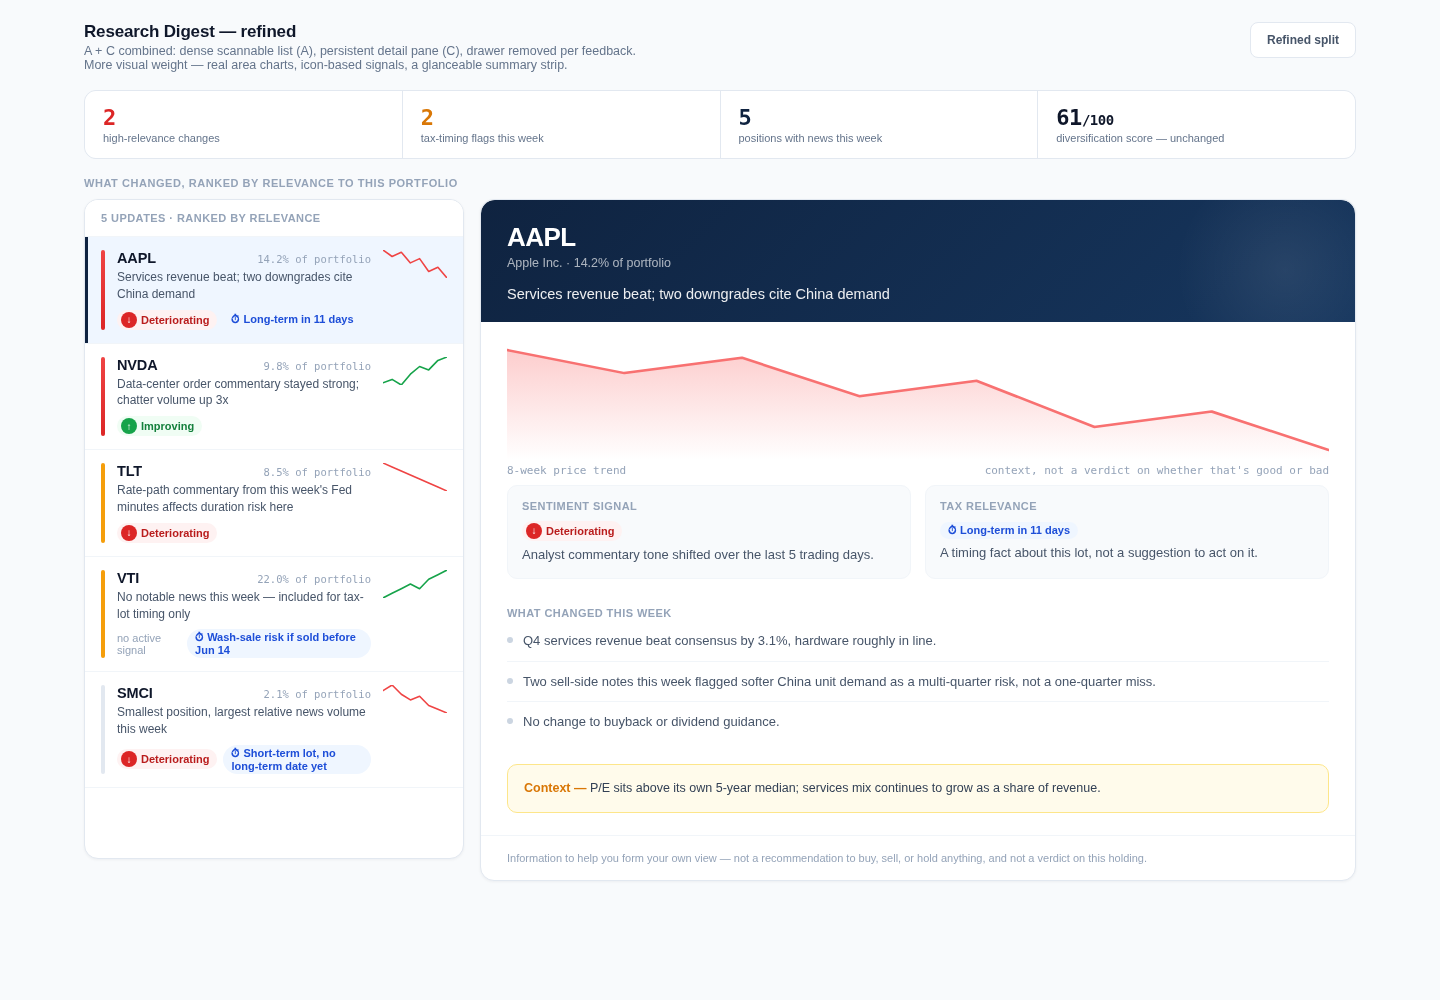
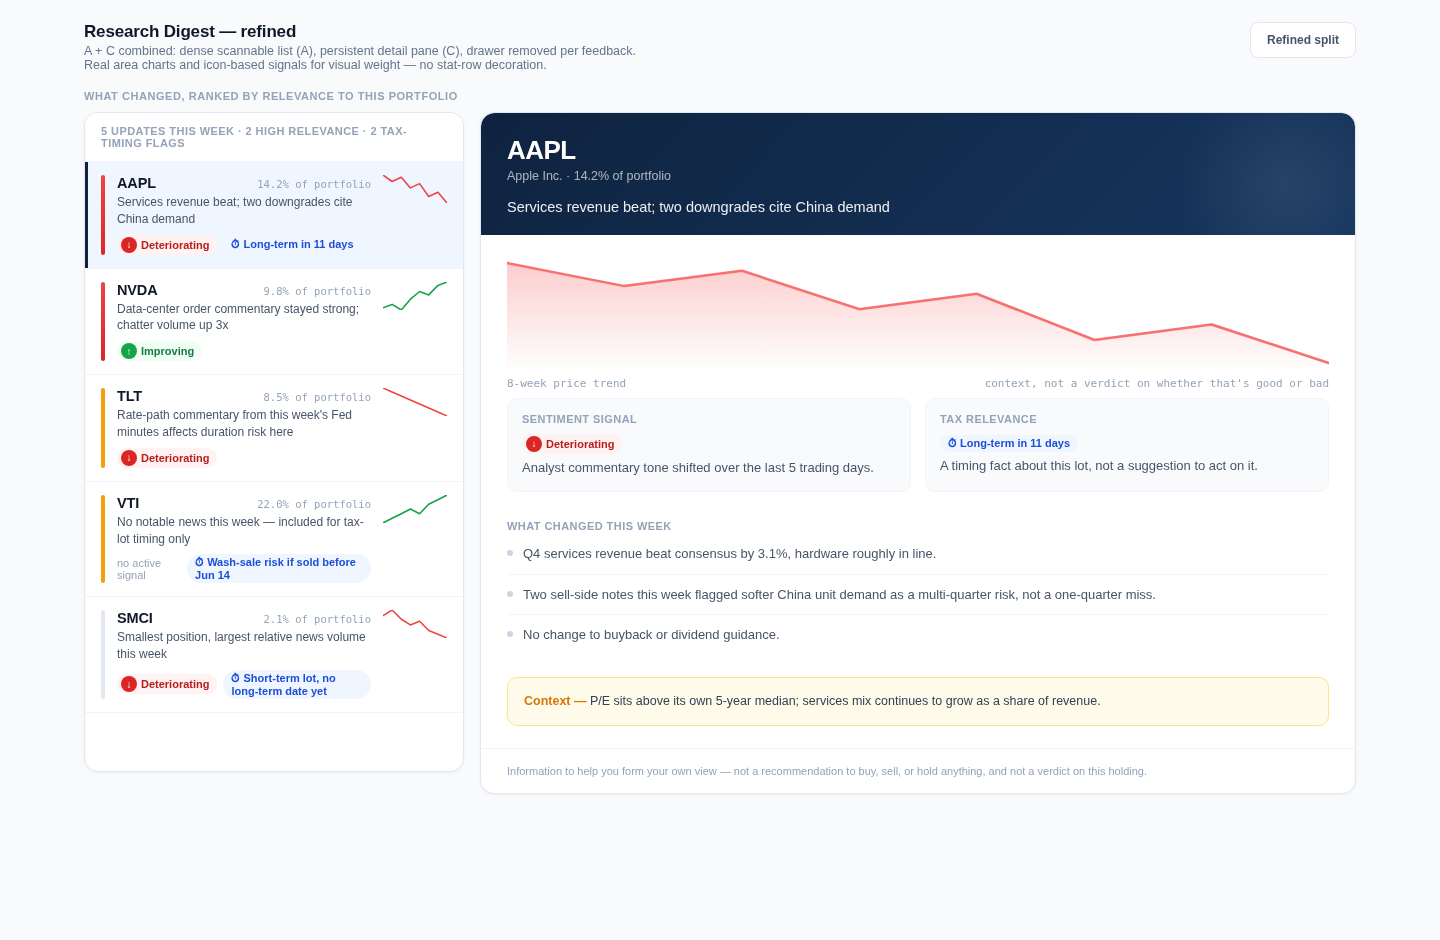
design: remove monument-stat strip (slop audit tell #6)
Colby flagged the 4-cell stat row as 'screams AI-generated dashboard' -
correct, it's the Monument Stat tell (oversized numbers filling space
instead of carrying product story), with Feature-tile grid as a
secondary symptom of the same block.

Per the design skill's rule (diagnose first, treat second; tells 3/6
are a re-layout call, not a recolor): removed the block entirely
rather than restyling it. The counts it displayed were already
redundant with what's visible per-row below (relevance rail, tax
badges), so this is a straight cut, not a replacement.

Changed region(s): [[0.0625, 0.0309, 0.9688, 0.8638], [0.7812, 0.4628, 0.875, 0.5553], [0.875, 0.0309, 0.9375, 0.0617]]

diff --git a/design/mockups/digest-refined.html b/design/mockups/digest-refined.html
@@ -26,15 +26,6 @@
   .tab-btn { border:none; background:transparent; font-size:12px; font-weight:600; padding:6px 12px; border-radius:6px; cursor:pointer; color: var(--slate-600); }
   .tab-btn.active { background: var(--navy); color: #fff; }
 
-  /* ---- summary strip: real aggregates, glanceable, gives density without being decorative ---- */
-  .summary-strip { display:grid; grid-template-columns: repeat(4,1fr); gap:1px; background: var(--slate-200); border-radius: 12px; overflow:hidden; margin-bottom: 18px; border:1px solid var(--slate-200); }
-  .summary-cell { background:#fff; padding: 14px 18px; }
-  .summary-cell .num { font-size: 22px; font-weight: 700; font-family: "SF Mono", Consolas, monospace; letter-spacing:-0.02em; }
-  .summary-cell .num.accent-red { color: var(--red-600); }
-  .summary-cell .num.accent-amber { color: var(--amber-600); }
-  .summary-cell .num.accent-navy { color: var(--navy); }
-  .summary-cell .lbl { font-size: 11px; color: var(--slate-500); margin-top: 2px; }
-
   .eyebrow { font-size:11px; font-weight:700; text-transform:uppercase; letter-spacing:.05em; color: var(--slate-400); margin: 0 0 10px; }
 
   /* ================= REFINED: master/detail (A's density + C's persistent pane) ================= */
@@ -104,25 +95,18 @@
   <div class="page-head">
     <div>
       <h1>Research Digest — refined</h1>
-      <p class="sub">A + C combined: dense scannable list (A), persistent detail pane (C), drawer removed per feedback. More visual weight — real area charts, icon-based signals, a glanceable summary strip.</p>
+      <p class="sub">A + C combined: dense scannable list (A), persistent detail pane (C), drawer removed per feedback. Real area charts and icon-based signals for visual weight — no stat-row decoration.</p>
     </div>
     <div id="tabs">
       <button data-tab="d1" class="tab-btn">Refined split</button>
     </div>
   </div>
 
-  <div class="summary-strip">
-    <div class="summary-cell"><div class="num accent-red">2</div><div class="lbl">high-relevance changes</div></div>
-    <div class="summary-cell"><div class="num accent-amber">2</div><div class="lbl">tax-timing flags this week</div></div>
-    <div class="summary-cell"><div class="num accent-navy">5</div><div class="lbl">positions with news this week</div></div>
-    <div class="summary-cell"><div class="num">61<span style="font-size:14px;">/100</span></div><div class="lbl">diversification score — unchanged</div></div>
-  </div>
-
   <section>
     <p class="eyebrow">What changed, ranked by relevance to this portfolio</p>
     <div class="split">
       <div class="card-shell list-pane">
-        <div class="list-header">5 updates · ranked by relevance</div>
+        <div class="list-header">5 updates this week · 2 high relevance · 2 tax-timing flags</div>
         <div id="listC"></div>
       </div>
       <div class="card-shell detail-pane" id="detailWrap"></div>
